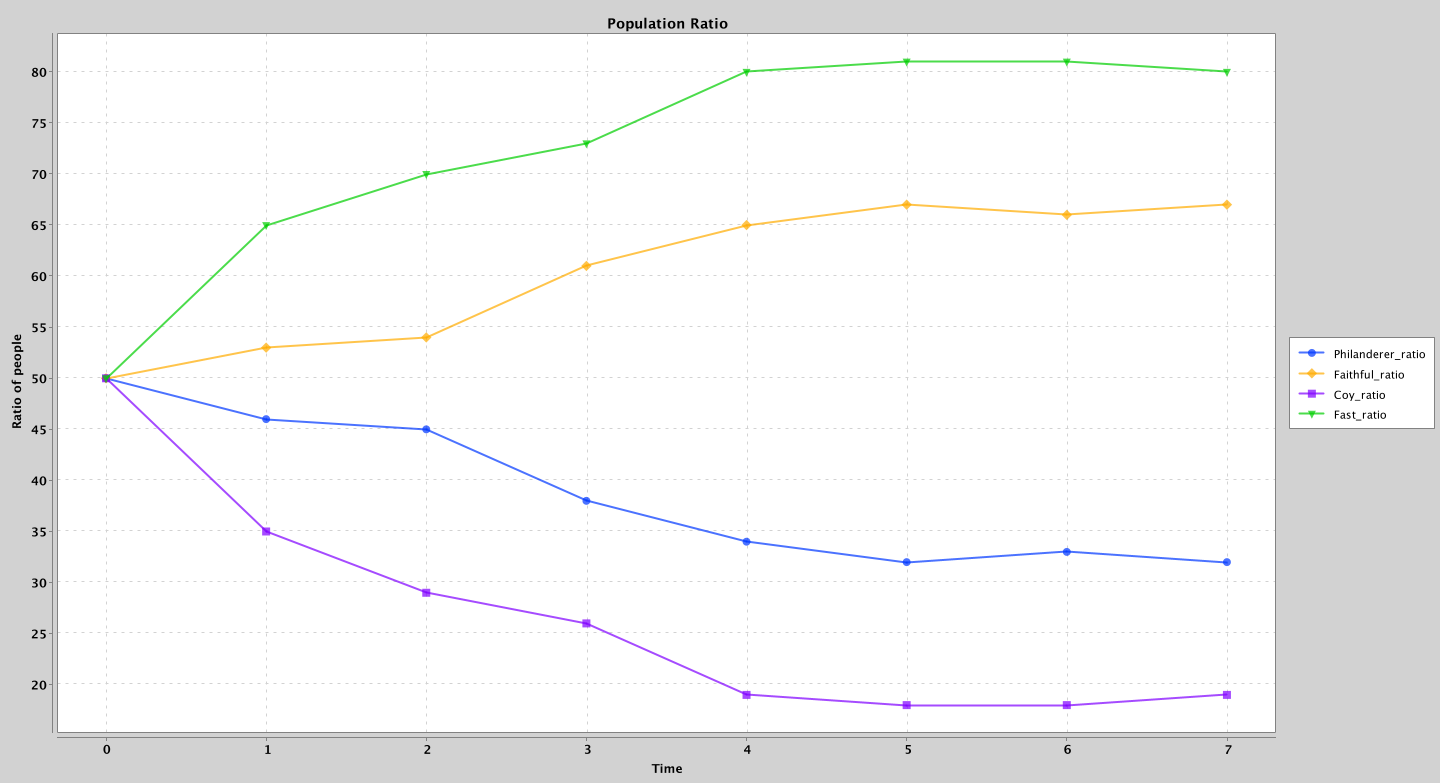
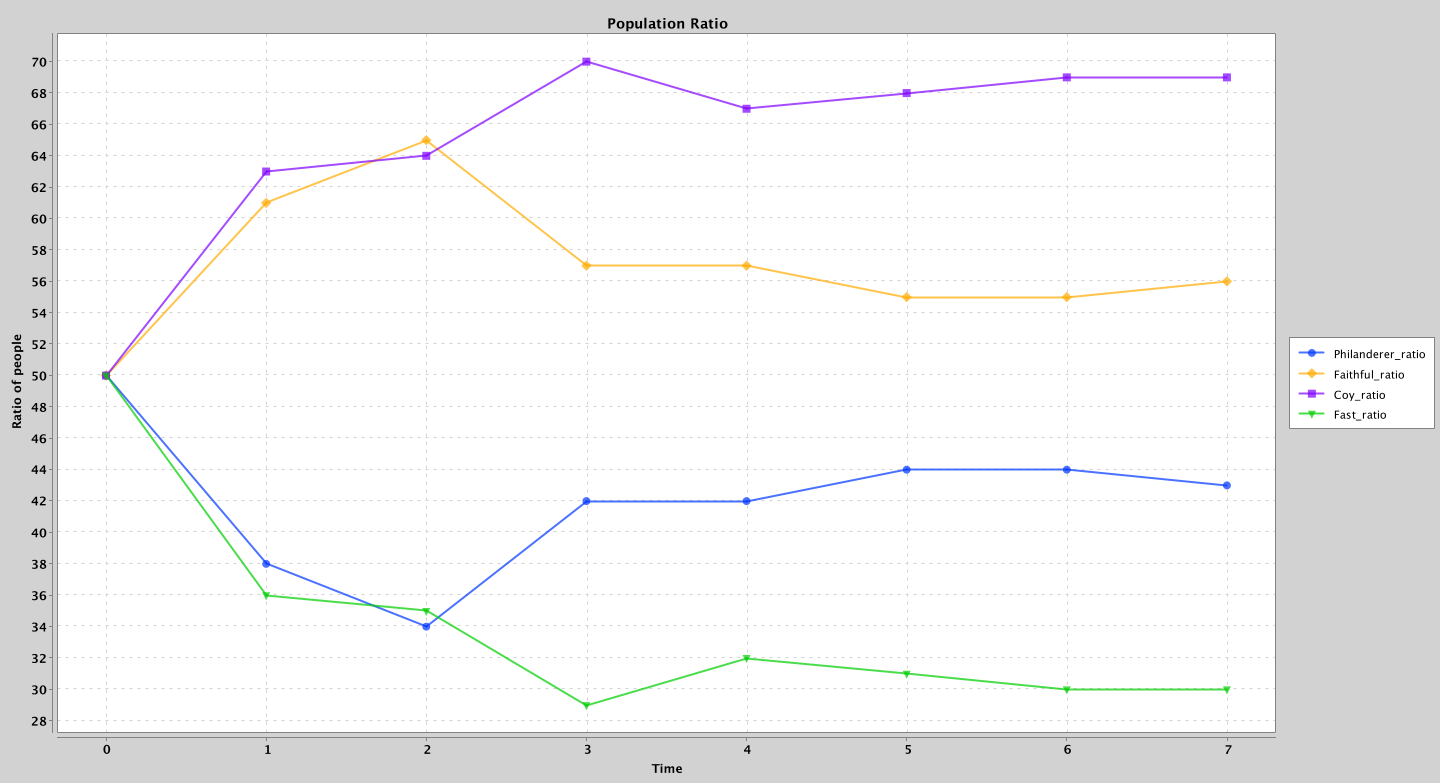
lollo
lollo

diff --git a/src/Female.java b/src/Female.java
@@ -13,12 +13,15 @@ public class Female extends Individual{
                 try {
                     wait();
                     // start check points
+                    /*
                     if (this.points < 1) {
                         synchronized (Population.numberIndividuals) {
                             Population.numberIndividuals[this.type]--;
                         }
+                        System.out.println("morte");
                         return;
                     }
+                     */
                     // start check children
                     /*
                     if (this.numberChildren >= maxChildren) {

diff --git a/src/Coy.java b/src/Coy.java
@@ -35,6 +35,23 @@ public class Coy extends Female {
             gentleman.numberChildren++;
         }
 
+        if (isPhilanderer(gentleman.type)){
+
+            gentleman.points += a;
+            this.points += (a-b);
+
+            if(random.nextBoolean()){
+                Coy ind = new Coy();
+                ind.start();
+            }
+            else {
+                Philanderer ind = new Philanderer();
+                ind.start();
+            }
+        }
+
+
+
         //TODO
         // if (isPhilanderer(gentleman.type)) {}
 

diff --git a/src/Main.java b/src/Main.java
@@ -13,7 +13,7 @@ public class Main {
 
     public static void main(String[] args) throws InterruptedException, IOException {
 
-        Population p = new Population(5,5,5,5);
+        Population p = new Population(2,2,2,2);
         Population.printMalesFemalesTot(); // initial condition
         Population.updateGraph(0); // graph at time zero
 
